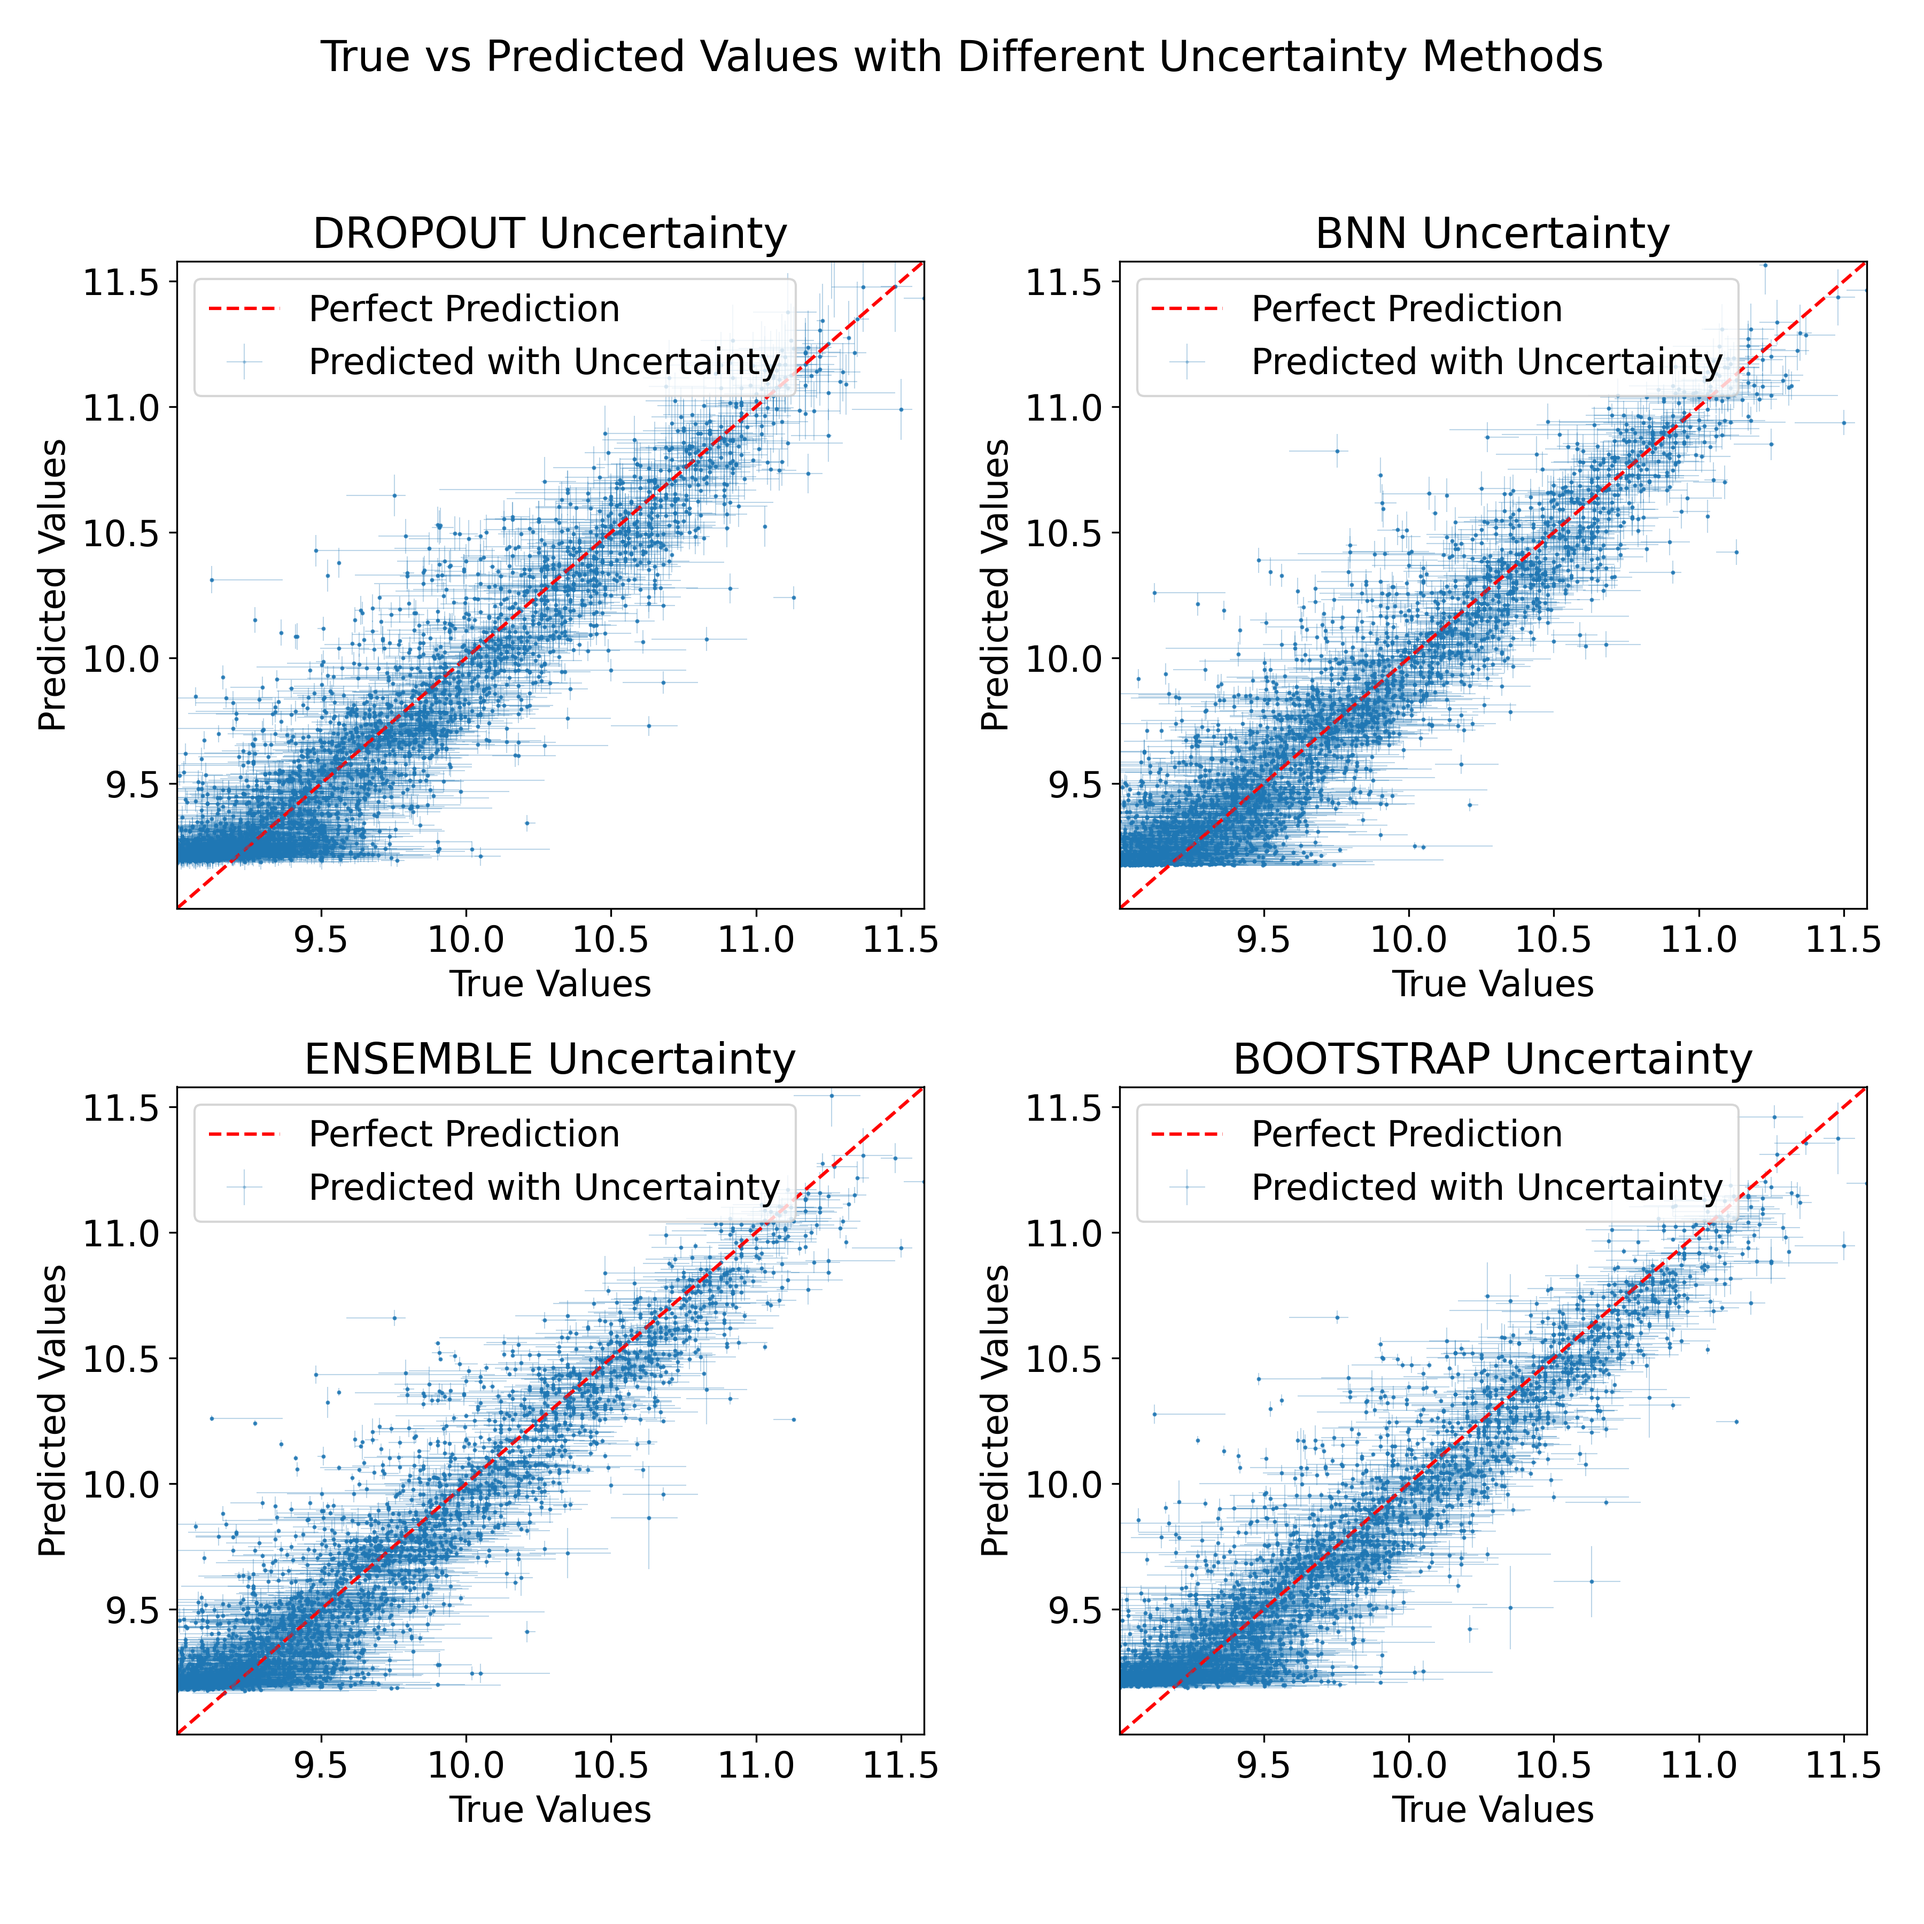
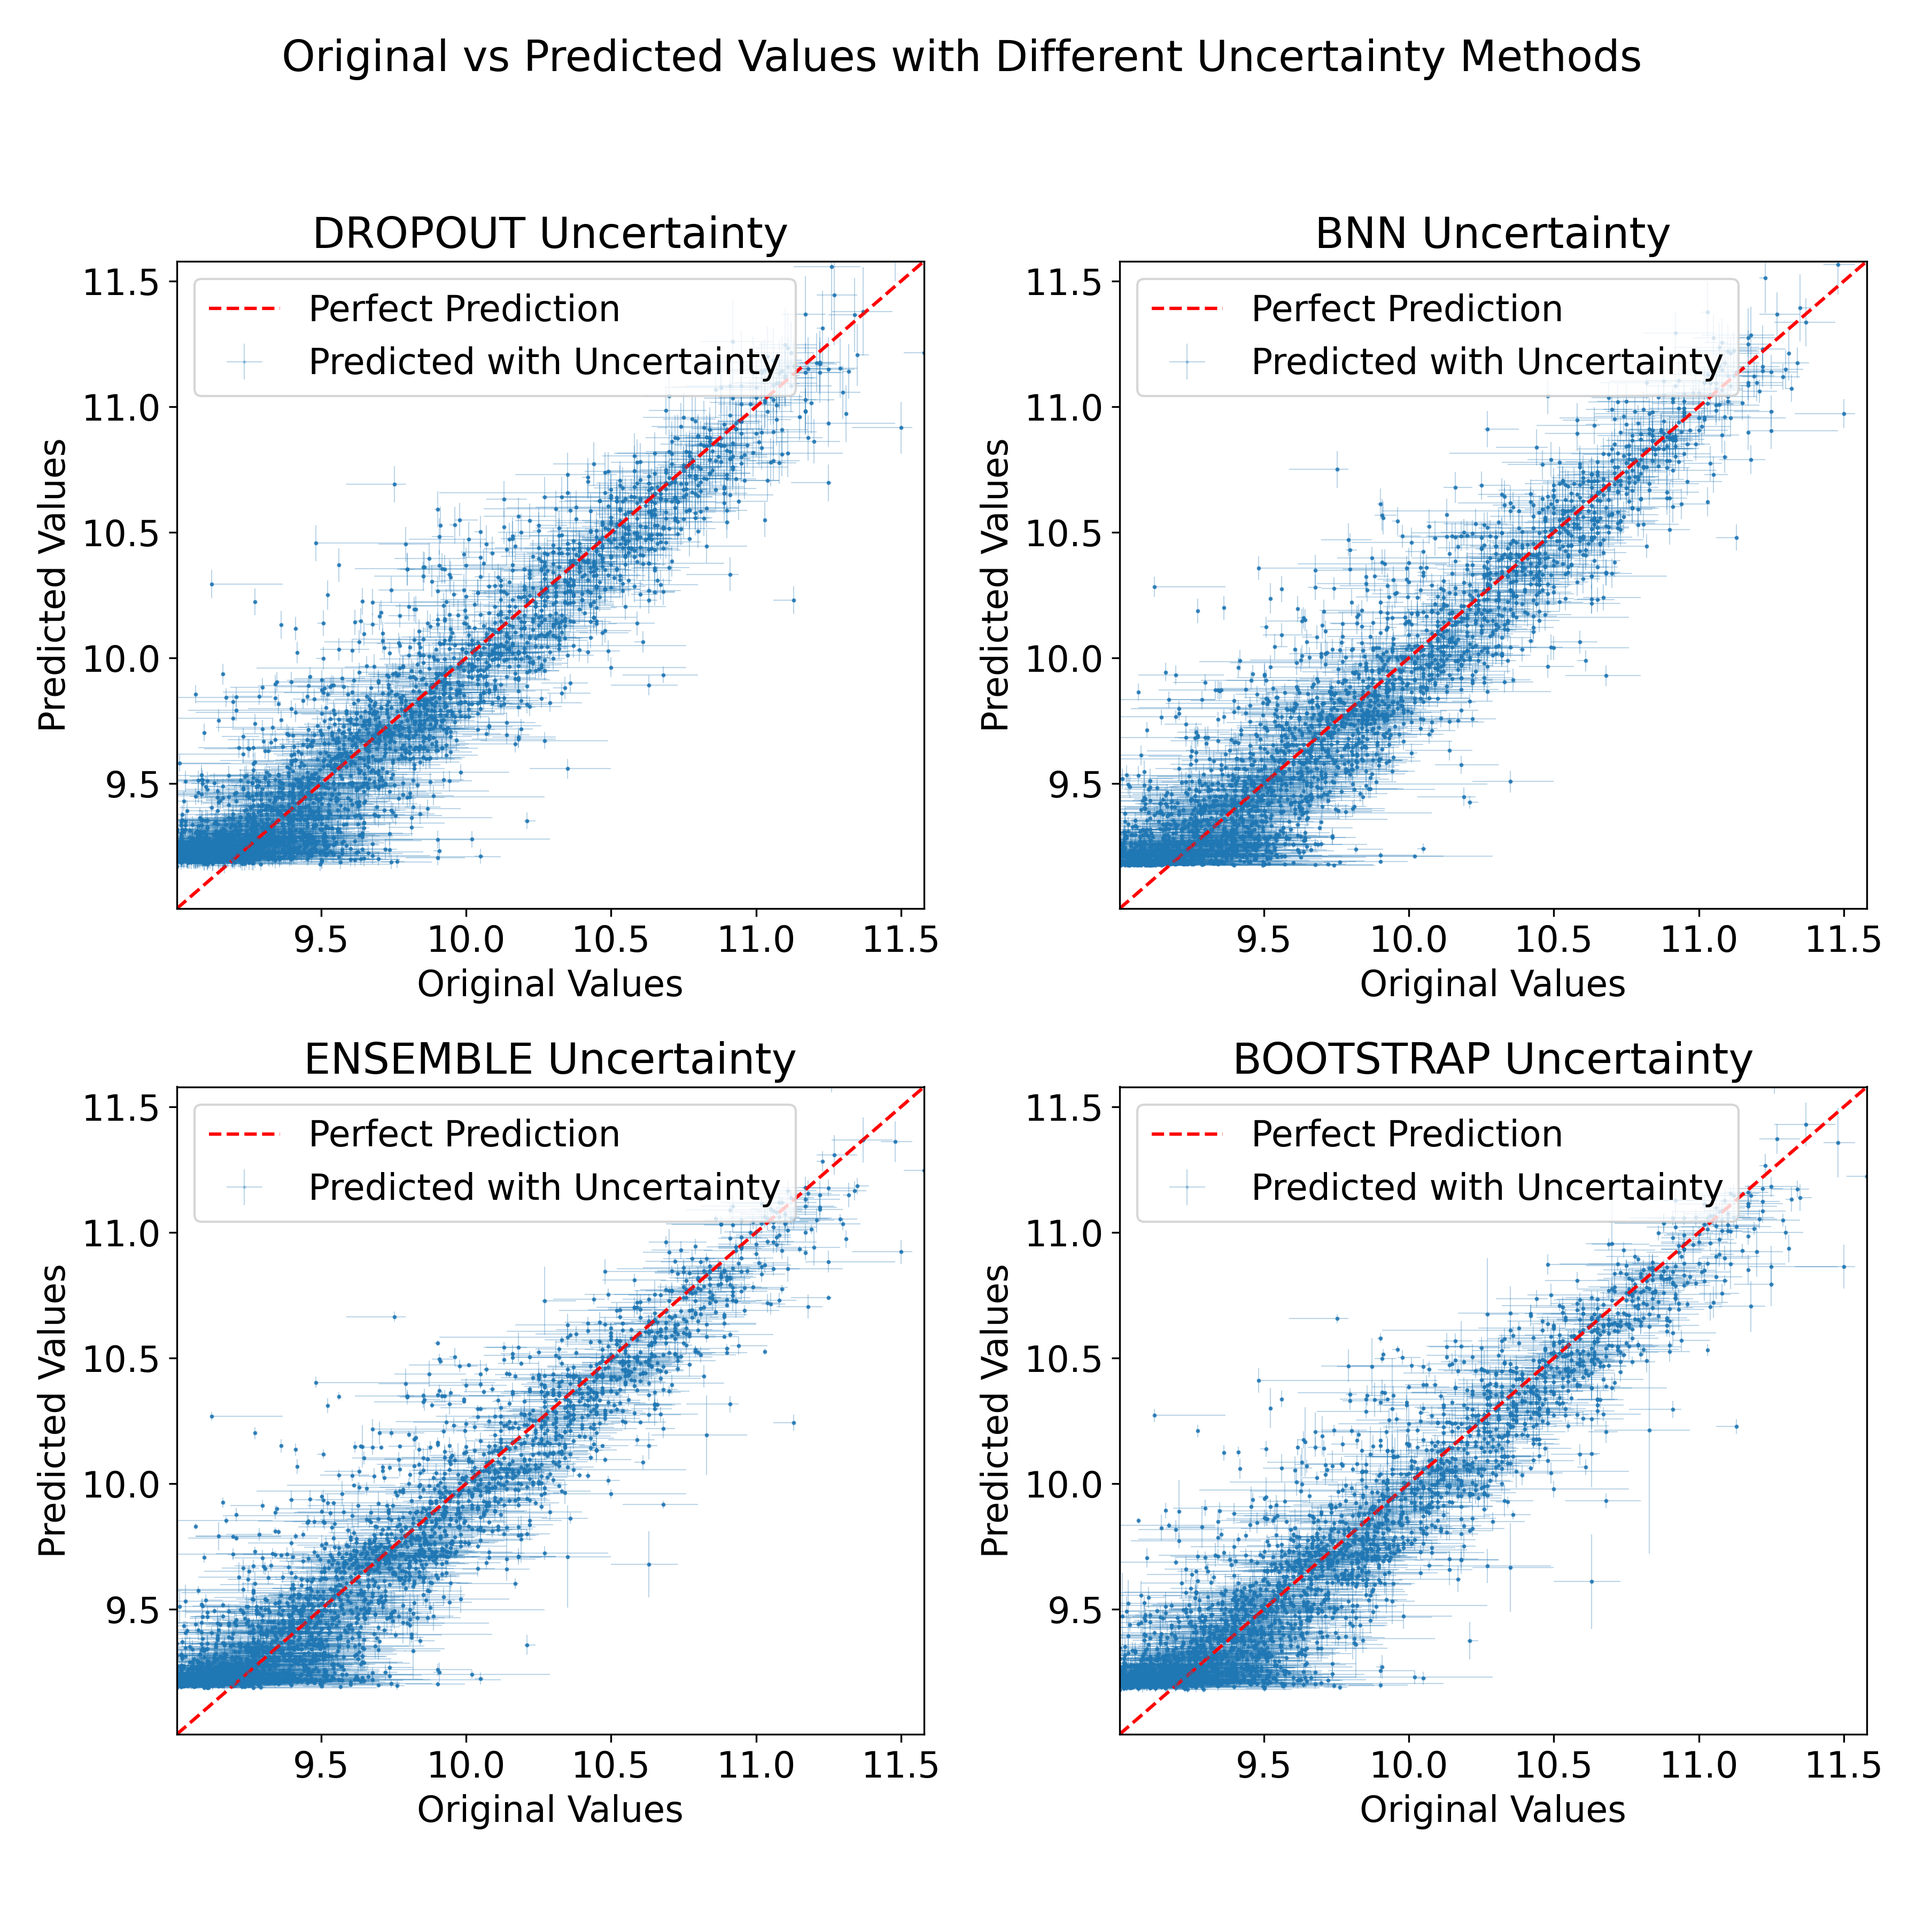
Add files via terminal

diff --git a/main.py b/main.py
@@ -124,14 +124,14 @@ def plot_uncertainty_results(y_true, y_16, y_84, results, y_min, y_max):
     
     # Create subplots grid for each model type
     fig, axs = plt.subplots(2, 2, figsize=(12, 12))
-    fig.suptitle('True vs Predicted Values with Different Uncertainty Methods')
+    fig.suptitle('Original vs Predicted Values with Different Uncertainty Methods')
 
     # Iterate over each model type and plot results
     for i, (model_type, (y_pred, y_uncertainty)) in enumerate(results.items()):
         # Select subplot for this model
         ax = axs[i // 2, i % 2]
 
-        # Scatter plot of true vs predicted values
+        # Scatter plot of original vs predicted values
         ax.scatter(y_true, y_pred, marker='.', s=3, alpha=0.8)
         
         # Add error bars for uncertainty around predicted values
@@ -146,7 +146,7 @@ def plot_uncertainty_results(y_true, y_16, y_84, results, y_min, y_max):
         ax.set_ylim([y_min, y_max])
         
         # Label axes and add title
-        ax.set_xlabel('True Values')
+        ax.set_xlabel('Original Values')
         ax.set_ylabel('Predicted Values')
         ax.set_title(f'{model_type.upper()} Uncertainty')
         ax.legend()
